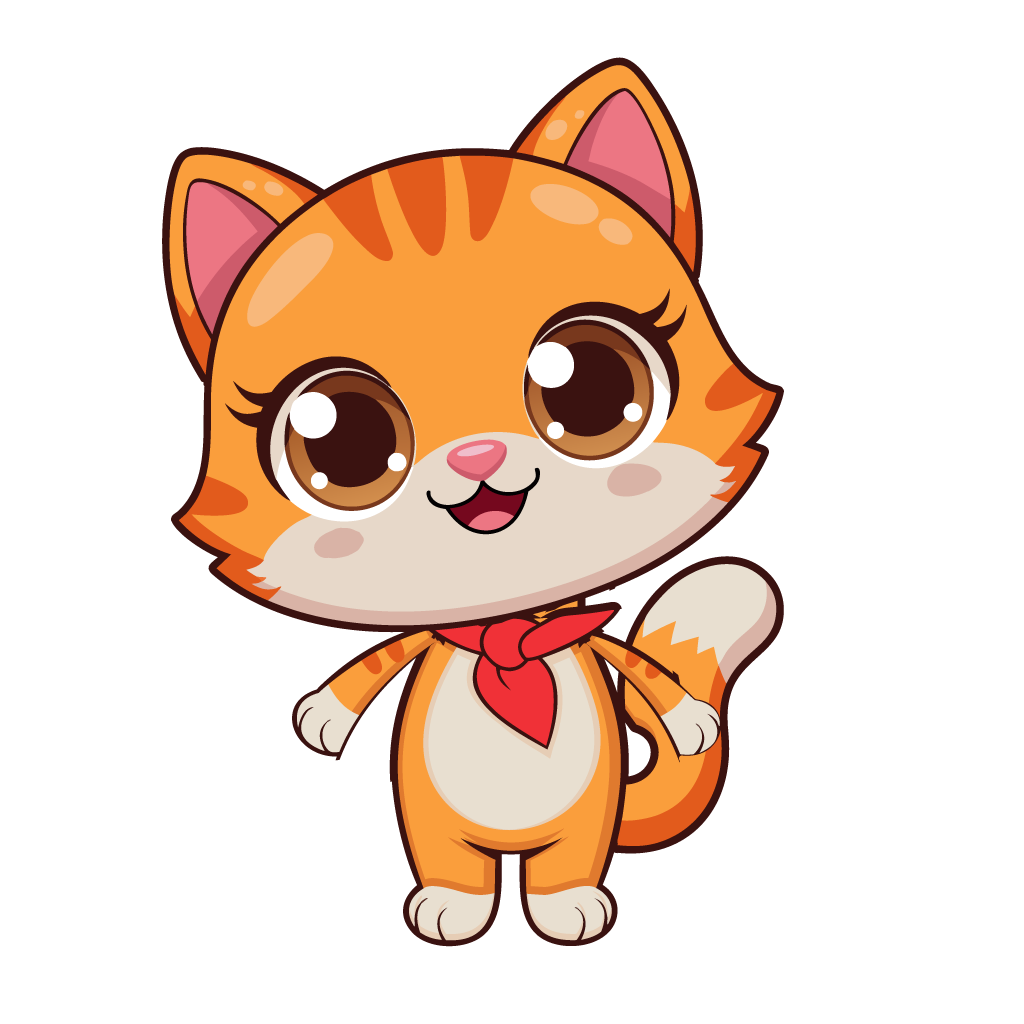
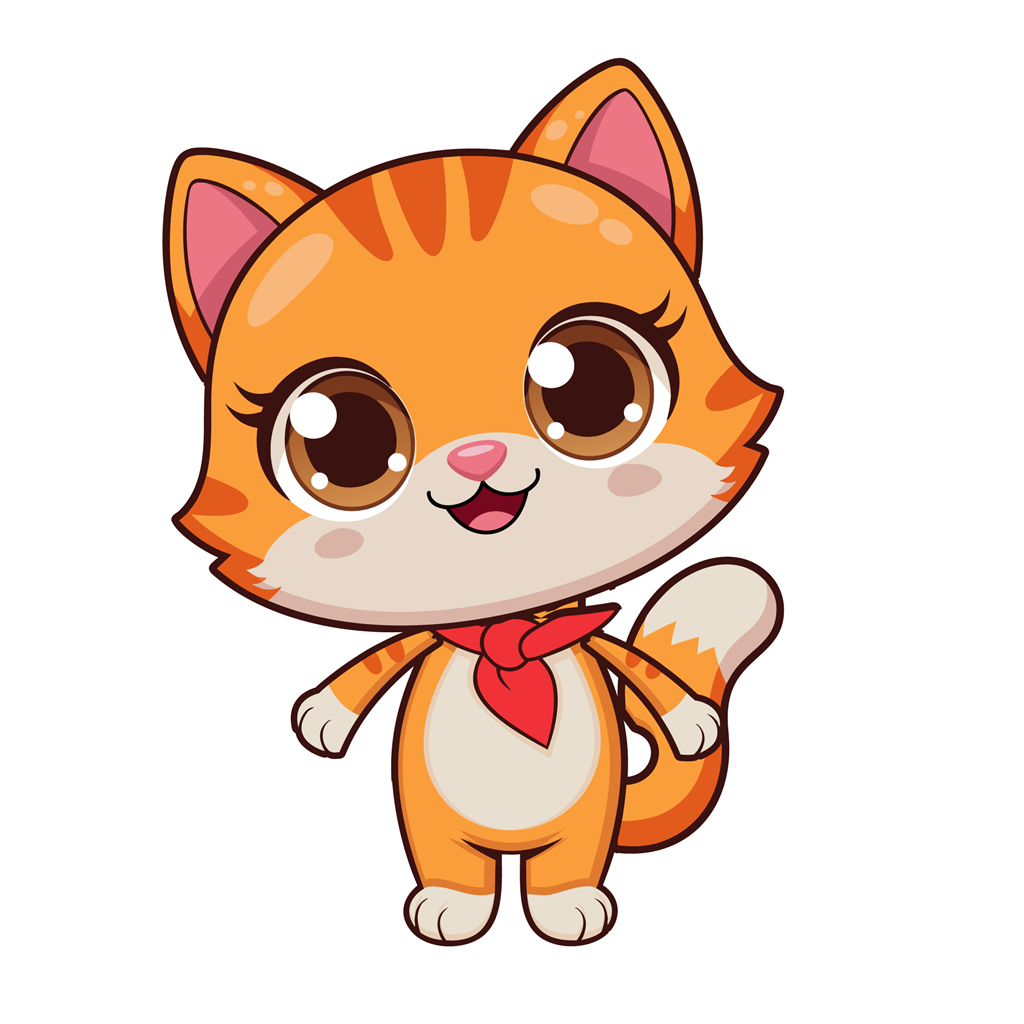
Mino final: kollar yeniden (kendi 13 px konturu), govde konturu 14 px

diff --git a/ORTAK_NOTLAR.md b/ORTAK_NOTLAR.md
@@ -205,4 +205,4 @@ Soru/engel olursa bu dosyaya yazın; bulut her çalışmada okur.
 - 2026-09-26 ONAY BEKLİYOR: (1) Fikrin kendisi. (2) Yeni görsel ~5 adet ≈ 10 Recraft kredisi (önce 1 örnek). (3) Seslendirme ~40 kısa cümle ≈ 1.000 karakter. (4) Bilgisayarda Node.js yok; kurulum onayı.
 - 2026-09-26 KARAR (Barış): öncelik ses oyunu (Uyuyan Orman). Pazar beklemede (kod ekip/pazar'da duruyor, görsel/ses üretimi yok). Yerel yönetici bulutun görev atamasını dağıttı: gemini oturumu → TASARIMCI 1 (Gemini, sincap ifade seti), tasarımcı oturumu → TASARIMCI 2 (Rive: önce mum.riv + ruzgar_gulu.riv, sonra sincap pilotu). Bulutun yeni satırları ile pazar satırları birleştirildi (gorsel-indir.mjs: orman-esya/ + pazar/).
 - 2026-09-26 KARAR (Barış): Mino gövde gölgesi onaylandı (tasarımcı, ekip/illustrator/mino-golge.jsx; önizleme ekip/mino/mino-golge-*.png). Tasarımcı katmanlara ayırmaya (kuyruk, govde, kol-sol, kol-sag, fular, kafa, goz-sol, goz-sag, agiz) ve gizli goz-kapali/agiz-acik/agiz-kapali katmanlarına geçti.
-- 2026-09-26 TESLİM (tasarımcı): Mino'nun son hâli hazır: `ekip/mino/mino-final.svg` (2048×2048; Presentation Attributes, id = katman adı, minify kapalı) + `ekip/mino/mino-final.png` (2048 px, şeffaf). Katmanlar arkadan öne: kuyruk, govde, kol-sol, kol-sag, fular, kafa, goz-sol, goz-sag, agiz; gizli (`display="none"`): goz-kapali, agiz-acik, agiz-kapali. Her katmanın kendi dış konturu var; gövdede kafanın altına uzanan boyun var (kafa 12°, kollar 25°, kuyruk 15° döndürülerek boşluk yok diye denendi). Duruşta gölgeli tek parça hâliyle aynı (yalnız kenar yumuşatma farkı). Betikler: `ekip/illustrator/mino-*.jsx`. Not: kollar çok büyük açıyla (25°+) kalkınca kol ucunda minik kontur uçları görünebilir.
+- 2026-09-26 TESLİM (tasarımcı): Mino'nun son hâli hazır: `ekip/mino/mino-final.svg` (2048×2048; Presentation Attributes, id = katman adı, minify kapalı) + `ekip/mino/mino-final.png` (2048 px, şeffaf). Katmanlar arkadan öne: kuyruk, govde, kol-sol, kol-sag, fular, kafa, goz-sol, goz-sag, agiz; gizli (`display="none"`): goz-kapali, agiz-acik, agiz-kapali. Her katmanın kendi dış konturu var; gövdede kafanın altına uzanan boyun var (kafa 12°, kollar 25°, kuyruk 15° döndürülerek boşluk yok diye denendi). Duruşta gölgeli tek parça hâliyle aynı (yalnız kenar yumuşatma farkı). Betikler: `ekip/illustrator/mino-*.jsx`. Kollar Barış'ın isteğiyle yenilendi: kol ve pati her kenarda eşit 13 px kendi konturunu taşıyor; kalkınca iç kenarda da çizgi var, omuzda çentik ve kıymık yok.
